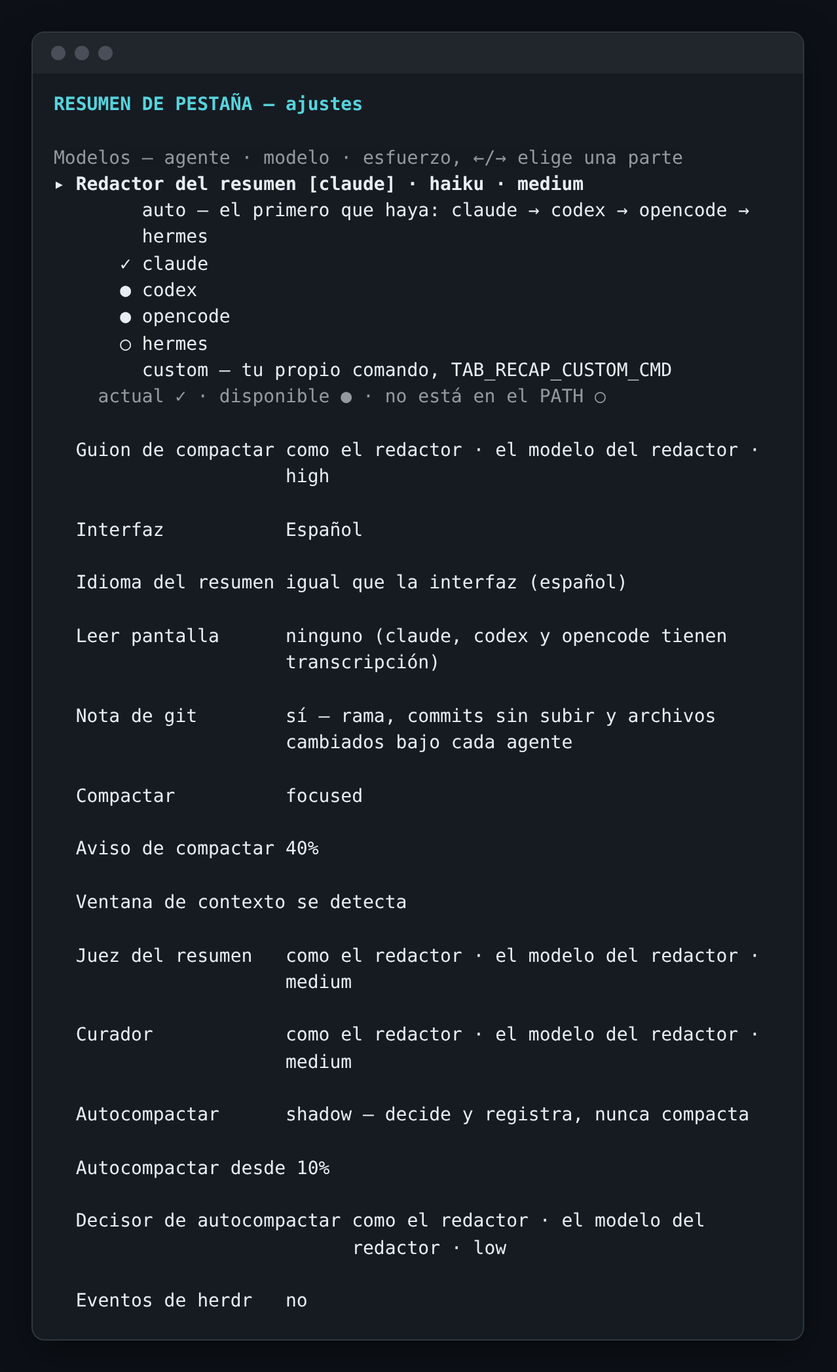
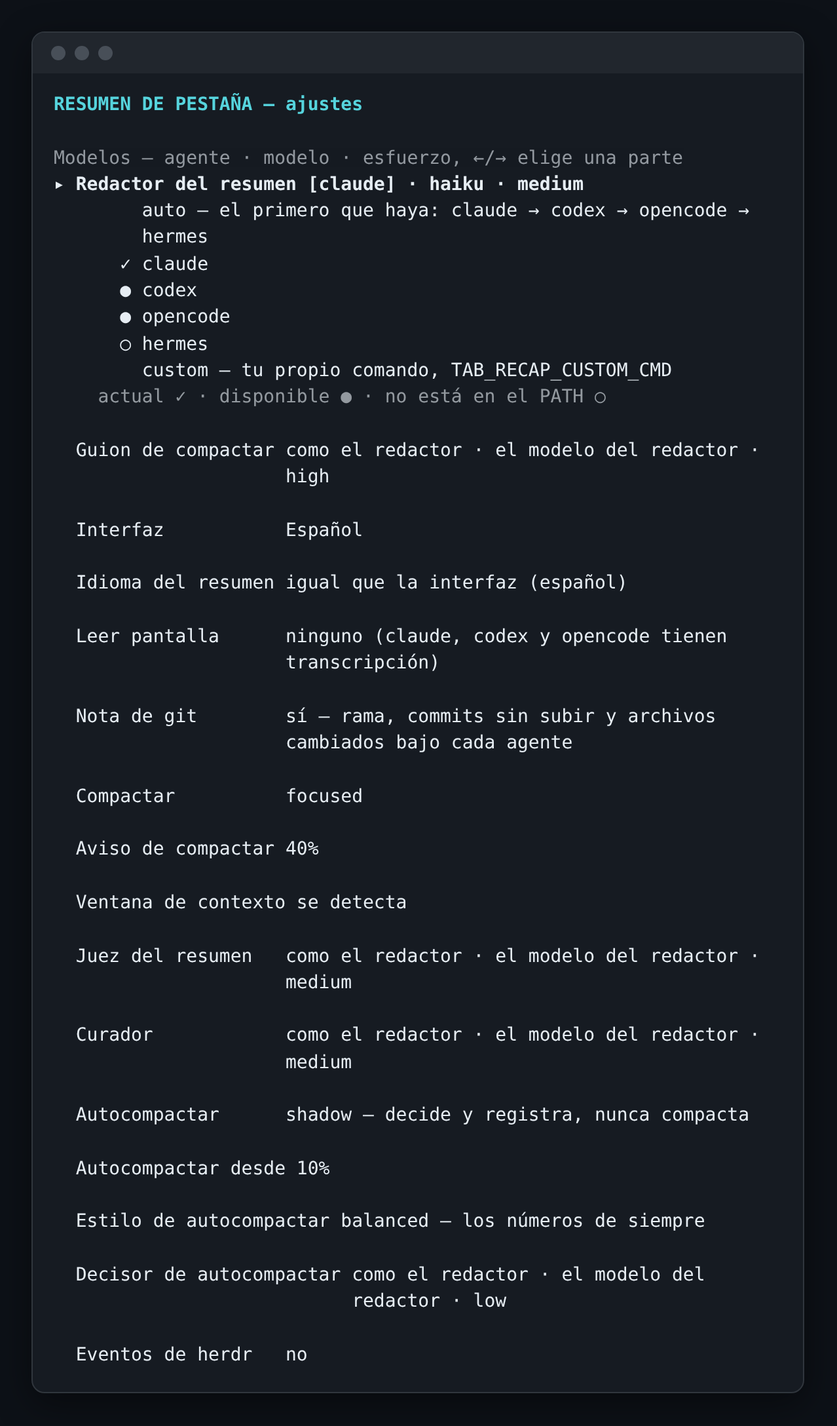
tab-recap: autocompact style in the settings modal, README, example config and the listing header
The «Autocompact style» row writes TAB_RECAP_AUTOCOMPACT_STYLE (English and Spanish), a locked row is never
written. README gets the table of the three styles; config.example.env the style and the advanced keys
(commented, so an explicit CEILING does not override the style); tab-recap autocompact prints the style and
its numbers first. Screenshots setup-en/es regenerated.

diff --git a/tab-recap/src/recap/application/setup-state.ts b/tab-recap/src/recap/application/setup-state.ts
@@ -6,6 +6,8 @@ import type { Effort } from '#src/recap/domain/effort.ts';
 import { hintSetting, targetSetting, windowSetting } from '#src/recap/domain/compaction.ts';
 import { modeOf, minimumOf } from '#src/recap/domain/autocompact.ts';
 import type { AutocompactMode } from '#src/recap/domain/autocompact.ts';
+import { STYLES, styleOf } from '#src/recap/domain/autocompact-style.ts';
+import type { AutocompactStyle } from '#src/recap/domain/autocompact-style.ts';
 import { compactJobOf, curateJobOf, DECIDER_BY_CHOICES, deciderJobOf, JOB_BY_CHOICES, judgeJobOf } from '#src/recap/domain/job.ts';
 import type { DeciderBy, DeciderJob, Job, JobBy } from '#src/recap/domain/job.ts';
 import { screenSetting } from '#src/recap/domain/policy.ts';
@@ -14,8 +16,8 @@ import { herdrEventsOf } from '#src/recap/domain/herdr-events.ts';
 import type { HerdrEvents } from '#src/recap/domain/herdr-events.ts';
 
 /** The rows; a job row (`recapJob`, `compactJob`) holds three fields — harness · model · effort — and `part` says which one is focused. */
-export type RowId = 'recapJob' | 'compactJob' | 'judgeJob' | 'curatorJob' | 'locale' | 'recapLanguage' | 'screenAgents' | 'gitNote' | 'compactTarget' | 'compactHint' | 'contextWindow' | 'autocompact' | 'autocompactAt' | 'autocompactJob' | 'herdrEvents';
-export const ROWS: readonly RowId[] = ['recapJob', 'compactJob', 'locale', 'recapLanguage', 'screenAgents', 'gitNote', 'compactTarget', 'compactHint', 'contextWindow', 'judgeJob', 'curatorJob', 'autocompact', 'autocompactAt', 'autocompactJob', 'herdrEvents'];
+export type RowId = 'recapJob' | 'compactJob' | 'judgeJob' | 'curatorJob' | 'locale' | 'recapLanguage' | 'screenAgents' | 'gitNote' | 'compactTarget' | 'compactHint' | 'contextWindow' | 'autocompact' | 'autocompactAt' | 'autocompactStyle' | 'autocompactJob' | 'herdrEvents';
+export const ROWS: readonly RowId[] = ['recapJob', 'compactJob', 'locale', 'recapLanguage', 'screenAgents', 'gitNote', 'compactTarget', 'compactHint', 'contextWindow', 'judgeJob', 'curatorJob', 'autocompact', 'autocompactAt', 'autocompactStyle', 'autocompactJob', 'herdrEvents'];
 /** What can be edited and locked: every row that is not a job, and each part of a job. */
 export type FieldId = Exclude<RowId, 'recapJob' | 'compactJob' | 'judgeJob' | 'curatorJob' | 'autocompactJob'> | 'harness' | 'model' | 'effort' | 'compactBy' | 'compactModel' | 'compactEffort' | 'judgeBy' | 'judgeModel' | 'judgeEffort' | 'curateBy' | 'curateModel' | 'curateEffort' | 'decideBy' | 'decideModel' | 'decideEffort';
 export const JOB_FIELDS: Readonly<Partial<Record<RowId, readonly FieldId[]>>> = {
@@ -30,6 +32,7 @@ export const JOB_BY_OPTIONS: readonly JobBy[] = JOB_BY_CHOICES;
 /** The decider's own list: the other jobs' plus `jev`. */
 export const DECIDER_BY_OPTIONS: readonly DeciderBy[] = DECIDER_BY_CHOICES;
 export const MODE_CHOICES: readonly AutocompactMode[] = ['off', 'shadow', 'on'];
+export const STYLE_CHOICES: readonly AutocompactStyle[] = STYLES;
 export const EFFORT_CHOICES: readonly Effort[] = EFFORTS;
 export type LocaleSetting = 'auto' | 'en' | 'es';
 export const HARNESS_CHOICES: readonly BackendChoice[] = ['auto', ...BACKEND_IDS];
@@ -60,6 +63,8 @@ export interface Draft {
     readonly autocompact: AutocompactMode;
     /** autocompact's minimum, as stored: 10–95 (`TAB_RECAP_AUTOCOMPACT_AT`) */
     readonly autocompactAt: string;
+    /** autocompact's style: how eagerly it acts (`TAB_RECAP_AUTOCOMPACT_STYLE`, `balanced` unless set) */
+    readonly autocompactStyle: AutocompactStyle;
     /** the decider's job (`TAB_RECAP_AUTOCOMPACT_BY`, `_MODEL`, `_EFFORT`); the Jev URL, model and key are never rows */
     readonly decide: DeciderJob;
     /** which agents compaction reaches, as stored: `focused`, `all` or a comma list of kinds (`TAB_RECAP_COMPACT_TARGET`) */
@@ -114,10 +119,10 @@ export interface Stepped {
 }
 
 /** The settings as they are now: the resolved configuration plus the raw locale settings. */
-export function draftFrom(config: Pick<Draft, 'backend' | 'models'>, raw: { readonly locale: string | undefined; readonly recapLanguage: string | undefined; readonly screenAgents?: string | undefined; readonly gitNote?: string | undefined; readonly effort?: string | undefined; readonly compactTarget?: string | undefined; readonly compactHint?: string | undefined; readonly contextWindow?: string | undefined; readonly compactBy?: string | undefined; readonly compactModel?: string | undefined; readonly compactEffort?: string | undefined; readonly judgeBy?: string | undefined; readonly judgeModel?: string | undefined; readonly judgeEffort?: string | undefined; readonly curateBy?: string | undefined; readonly curateModel?: string | undefined; readonly curateEffort?: string | undefined; readonly autocompact?: string | undefined; readonly autocompactAt?: string | undefined; readonly decideBy?: string | undefined; readonly decideModel?: string | undefined; readonly decideEffort?: string | undefined; readonly herdrEvents?: string | undefined }): Draft {
+export function draftFrom(config: Pick<Draft, 'backend' | 'models'>, raw: { readonly locale: string | undefined; readonly recapLanguage: string | undefined; readonly screenAgents?: string | undefined; readonly gitNote?: string | undefined; readonly effort?: string | undefined; readonly compactTarget?: string | undefined; readonly compactHint?: string | undefined; readonly contextWindow?: string | undefined; readonly compactBy?: string | undefined; readonly compactModel?: string | undefined; readonly compactEffort?: string | undefined; readonly judgeBy?: string | undefined; readonly judgeModel?: string | undefined; readonly judgeEffort?: string | undefined; readonly curateBy?: string | undefined; readonly curateModel?: string | undefined; readonly curateEffort?: string | undefined; readonly autocompact?: string | undefined; readonly autocompactAt?: string | undefined; readonly autocompactStyle?: string | undefined; readonly decideBy?: string | undefined; readonly decideModel?: string | undefined; readonly decideEffort?: string | undefined; readonly herdrEvents?: string | undefined }): Draft {
     const locale = LOCALE_CHOICES.find((choice) => choice === raw.locale) ?? 'auto';
     const gitNote = raw.gitNote?.trim().toLowerCase() === 'off' ? 'off' : 'on';
-    return { ...config, herdrEvents: herdrEventsOf(raw.herdrEvents), locale, recapLanguage: languageSetting(raw.recapLanguage), screenAgents: screenSetting(raw.screenAgents), gitNote, effort: effortOf(raw.effort), compactTarget: targetSetting(raw.compactTarget), compactHint: hintSetting(raw.compactHint), contextWindow: windowSetting(raw.contextWindow), compact: compactJobOf((key) => ({ TAB_RECAP_COMPACT_BY: raw.compactBy, TAB_RECAP_COMPACT_MODEL: raw.compactModel, TAB_RECAP_COMPACT_EFFORT: raw.compactEffort })[key]), judge: judgeJobOf((key) => ({ TAB_RECAP_JUDGE_BY: raw.judgeBy, TAB_RECAP_JUDGE_MODEL: raw.judgeModel, TAB_RECAP_JUDGE_EFFORT: raw.judgeEffort })[key]), curate: curateJobOf((key) => ({ TAB_RECAP_CURATE_BY: raw.curateBy, TAB_RECAP_CURATE_MODEL: raw.curateModel, TAB_RECAP_CURATE_EFFORT: raw.curateEffort })[key]), autocompact: modeOf(raw.autocompact), autocompactAt: String(minimumOf(raw.autocompactAt)), decide: deciderJobOf((key) => ({ TAB_RECAP_AUTOCOMPACT_BY: raw.decideBy, TAB_RECAP_AUTOCOMPACT_MODEL: raw.decideModel, TAB_RECAP_AUTOCOMPACT_EFFORT: raw.decideEffort })[key]) };
+    return { ...config, herdrEvents: herdrEventsOf(raw.herdrEvents), locale, recapLanguage: languageSetting(raw.recapLanguage), screenAgents: screenSetting(raw.screenAgents), gitNote, effort: effortOf(raw.effort), compactTarget: targetSetting(raw.compactTarget), compactHint: hintSetting(raw.compactHint), contextWindow: windowSetting(raw.contextWindow), compact: compactJobOf((key) => ({ TAB_RECAP_COMPACT_BY: raw.compactBy, TAB_RECAP_COMPACT_MODEL: raw.compactModel, TAB_RECAP_COMPACT_EFFORT: raw.compactEffort })[key]), judge: judgeJobOf((key) => ({ TAB_RECAP_JUDGE_BY: raw.judgeBy, TAB_RECAP_JUDGE_MODEL: raw.judgeModel, TAB_RECAP_JUDGE_EFFORT: raw.judgeEffort })[key]), curate: curateJobOf((key) => ({ TAB_RECAP_CURATE_BY: raw.curateBy, TAB_RECAP_CURATE_MODEL: raw.curateModel, TAB_RECAP_CURATE_EFFORT: raw.curateEffort })[key]), autocompact: modeOf(raw.autocompact), autocompactAt: String(minimumOf(raw.autocompactAt)), autocompactStyle: styleOf(raw.autocompactStyle), decide: deciderJobOf((key) => ({ TAB_RECAP_AUTOCOMPACT_BY: raw.decideBy, TAB_RECAP_AUTOCOMPACT_MODEL: raw.decideModel, TAB_RECAP_AUTOCOMPACT_EFFORT: raw.decideEffort })[key]) };
 }
 
 export function initial(draft: Draft, locks: Locks): Setup {

diff --git a/tab-recap/src/recap/render/setup.ts b/tab-recap/src/recap/render/setup.ts
@@ -1,6 +1,6 @@
 // The settings modal as lines of text. Pure; every word comes from Messages.
 import type { Messages } from '#src/i18n/messages.ts';
-import { DECIDER_BY_OPTIONS, EFFORT_CHOICES, fieldOf, HARNESS_CHOICES, JOB_BY_OPTIONS, JOB_FIELDS, LOCALE_CHOICES, MODE_CHOICES, modelTarget, ROWS, rowOf, SWITCH_CHOICES } from '#src/recap/application/setup-keys.ts';
+import { DECIDER_BY_OPTIONS, EFFORT_CHOICES, fieldOf, HARNESS_CHOICES, JOB_BY_OPTIONS, JOB_FIELDS, LOCALE_CHOICES, MODE_CHOICES, modelTarget, ROWS, rowOf, STYLE_CHOICES, SWITCH_CHOICES } from '#src/recap/application/setup-keys.ts';
 import type { FieldId, RowId, Setup } from '#src/recap/application/setup-keys.ts';
 import type { DeciderJob } from '#src/recap/domain/job.ts';
 import { AUTO_ORDER, MODEL_DEFAULTS } from '#src/recap/domain/backend.ts';
@@ -70,6 +70,7 @@ const VALUES: Readonly<Record<RowId, (state: Setup, m: Messages) => string>> = {
     autocompactJob: (state, m) => jobText('autocompactJob', state, m),
     autocompact: (state, m) => m.setup.autocompactChoices[state.draft.autocompact],
     autocompactAt: (state) => `${state.draft.autocompactAt}%`,
+    autocompactStyle: (state, m) => m.setup.autocompactStyleChoices[state.draft.autocompactStyle],
     locale: (state, m) => m.setup.uiChoices[state.draft.locale],
     recapLanguage: (state, m) => recapText(state.draft.recapLanguage, m),
     screenAgents: (state, m) => screenText(state.draft.screenAgents, m),
@@ -111,7 +112,7 @@ function pickList(state: Setup, labels: readonly string[], width: number, style:
 }
 
 function hintOf(row: RowId, m: Messages): string | null {
-    const hints: Readonly<Partial<Record<RowId, string>>> = { herdrEvents: m.setup.herdrEventsHint, compactJob: m.setup.compactJobHint, judgeJob: m.setup.judgeJobHint, curatorJob: m.setup.curateJobHint, autocompact: m.setup.autocompactHint, autocompactAt: m.setup.autocompactAtHint, autocompactJob: m.setup.autocompactJobHint, recapLanguage: m.setup.recapLanguageHint, screenAgents: m.setup.screenAgentsHint, compactTarget: m.setup.compactTargetHint, compactHint: m.setup.compactHintHint, contextWindow: m.setup.contextWindowHint };
+    const hints: Readonly<Partial<Record<RowId, string>>> = { herdrEvents: m.setup.herdrEventsHint, compactJob: m.setup.compactJobHint, judgeJob: m.setup.judgeJobHint, curatorJob: m.setup.curateJobHint, autocompact: m.setup.autocompactHint, autocompactAt: m.setup.autocompactAtHint, autocompactStyle: m.setup.autocompactStyleHint, autocompactJob: m.setup.autocompactJobHint, recapLanguage: m.setup.recapLanguageHint, screenAgents: m.setup.screenAgentsHint, compactTarget: m.setup.compactTargetHint, compactHint: m.setup.compactHintHint, contextWindow: m.setup.contextWindowHint };
     return hints[row] ?? null;
 }
 
@@ -141,6 +142,7 @@ function choicesUnder(row: RowId, state: Setup, m: Messages, width: number, styl
         judgeEffort: () => pickList(state, EFFORT_CHOICES.map((choice) => m.setup.effortChoices[choice]), width, style),
         curateBy: () => pickList(state, JOB_BY_OPTIONS.map((choice) => (choice === 'off' ? m.setup.curateOff : m.setup.jobByChoices[choice])), width, style),
         autocompact: () => pickList(state, MODE_CHOICES.map((choice) => m.setup.autocompactChoices[choice]), width, style),
+        autocompactStyle: () => pickList(state, STYLE_CHOICES.map((choice) => m.setup.autocompactStyleChoices[choice]), width, style),
         decideBy: () => pickList(state, DECIDER_BY_OPTIONS.map((choice) => (choice === 'off' ? m.setup.deciderOff : m.setup.jobByChoices[choice])), width, style),
         decideEffort: () => pickList(state, EFFORT_CHOICES.map((choice) => m.setup.effortChoices[choice]), width, style),
         curateEffort: () => pickList(state, EFFORT_CHOICES.map((choice) => m.setup.effortChoices[choice]), width, style),

diff --git a/tab-recap/test/autocompact-style-modal.test.ts b/tab-recap/test/autocompact-style-modal.test.ts
@@ -1,0 +1,54 @@
+// The settings modal's «Autocompact style» row: it shows the style, writes TAB_RECAP_AUTOCOMPACT_STYLE when chosen, is never written while locked,
+// and an unknown value in the file is the balanced style.
+import { test } from 'node:test';
+import assert from 'node:assert/strict';
+import { en } from '#src/i18n/en.ts';
+import { es } from '#src/i18n/es.ts';
+import { changes, draftFrom, initial, locksOf, step, withAvailable } from '#src/recap/application/setup-keys.ts';
+import type { Draft, Locks, Setup } from '#src/recap/application/setup-keys.ts';
+import { setupView } from '#src/recap/render/setup.ts';
+import type { AutocompactStyle } from '#src/recap/domain/autocompact-style.ts';
+
+const models = { claude: '', codex: 'gpt-6-luna', opencode: '', hermes: '', custom: '' };
+const draft: Draft = draftFrom({ backend: 'codex', models }, { locale: undefined, recapLanguage: undefined });
+const start = (locks: Locks = {}): Setup => withAvailable(initial(draft, locks), ['claude', 'codex']);
+const down = (n: number): string[] => Array.from({ length: n }, () => 'j');
+
+/** The style a configuration file names, as the modal reads it. */
+const readStyle = (autocompactStyle: string | undefined): AutocompactStyle => draftFrom({ backend: 'codex', models }, { locale: undefined, recapLanguage: undefined, autocompactStyle }).autocompactStyle;
+
+/** The keys pressed in order, the state after each. */
+function typed(state: Setup, keys: readonly string[]): Setup {
+    return keys.reduce((now, key) => step(now, key).state, state);
+}
+
+test('the row starts at balanced, and choosing eager writes TAB_RECAP_AUTOCOMPACT_STYLE only', () => {
+    assert.equal(draft.autocompactStyle, 'balanced');
+    const chosen = typed(start(), [...down(13), '\r', 'j', '\r']);
+    assert.equal(chosen.draft.autocompactStyle, 'eager');
+    assert.deepEqual([...changes(chosen)], [['TAB_RECAP_AUTOCOMPACT_STYLE', 'eager']]);
+});
+
+test('a locked row is never written: the row names its variable and a change is not saved', () => {
+    const locked = start({ autocompactStyle: 'TAB_RECAP_AUTOCOMPACT_STYLE' });
+    const attempted = typed(locked, [...down(13), '\r', 'j', '\r']);
+    assert.equal(typed(locked, [...down(13), '\r']).note, 'locked');
+    assert.deepEqual([...changes(attempted)], [], 'a locked row produces no change');
+    assert.deepEqual(locksOf({ TAB_RECAP_AUTOCOMPACT_STYLE: 'gentle' }), { autocompactStyle: 'TAB_RECAP_AUTOCOMPACT_STYLE' });
+});
+
+test('the file\'s value: gentle and eager are read as they are; anything else is balanced', () => {
+    assert.deepEqual(['gentle', 'EAGER', 'aggressive', undefined].map(readStyle), ['gentle', 'eager', 'balanced', 'balanced']);
+});
+
+test('the row shows its value and its three choices in English and Spanish, with its hint while focused', () => {
+    const focused = typed(withAvailable(initial(draft, {}), ['claude']), down(13));
+    const text = setupView(focused, en, 140).join('\n');
+    assert.match(text, /Autocompact style\s+balanced — today's numbers/);
+    assert.match(text, /how eagerly it acts/);
+    const choosing = setupView(typed(focused, ['\r']), en, 140).join('\n');
+    assert.match(choosing, /eager — acts sooner; asks an idle lane again every 30 min/);
+    const spanish = setupView(typed(focused, ['\r']), es, 140).join('\n');
+    assert.match(spanish, /eager — actúa antes; vuelve a mirar un agente libre cada 30 min/);
+    assert.match(setupView(typed(withAvailable(initial(draft, {}), ['claude']), down(13)), es, 140).join('\n'), /Estilo de autocompactar\s+balanced — los números de siempre/);
+});

diff --git a/tab-recap/src/i18n/es.ts b/tab-recap/src/i18n/es.ts
@@ -26,7 +26,7 @@ export const es: Messages = {
     },
     setup: {
         title: 'RESUMEN DE PESTAÑA — ajustes',
-        rows: { recapJob: 'Redactor del resumen', compactJob: 'Guion de compactar', judgeJob: 'Juez del resumen', curatorJob: 'Curador', locale: 'Interfaz', recapLanguage: 'Idioma del resumen', screenAgents: 'Leer pantalla', gitNote: 'Nota de git', compactTarget: 'Compactar', compactHint: 'Aviso de compactar', contextWindow: 'Ventana de contexto', autocompact: 'Autocompactar', autocompactAt: 'Autocompactar desde', autocompactJob: 'Decisor de autocompactar', herdrEvents: 'Eventos de herdr' },
+        rows: { recapJob: 'Redactor del resumen', compactJob: 'Guion de compactar', judgeJob: 'Juez del resumen', curatorJob: 'Curador', locale: 'Interfaz', recapLanguage: 'Idioma del resumen', screenAgents: 'Leer pantalla', gitNote: 'Nota de git', compactTarget: 'Compactar', compactHint: 'Aviso de compactar', contextWindow: 'Ventana de contexto', autocompact: 'Autocompactar', autocompactAt: 'Autocompactar desde', autocompactStyle: 'Estilo de autocompactar', autocompactJob: 'Decisor de autocompactar', herdrEvents: 'Eventos de herdr' },
         loading: 'buscando agentes…',
         auto: (order) => `el primero que haya: ${order}`,
         custom: 'tu propio comando, TAB_RECAP_CUSTOM_CMD',
@@ -55,6 +55,8 @@ export const es: Messages = {
         autocompactChoices: { off: 'off — nunca decide', shadow: 'shadow — decide y registra, nunca compacta', on: 'on — compacta en un buen momento por encima del límite' },
         autocompactHint: 'compacta solo a un agente libre cuando su contexto está lleno y no hay nada a medias; empieza con shadow y mira `tab-recap autocompact`',
         autocompactAtHint: 'la parte del contexto desde la que se evalúa un agente libre: de 10 a 95',
+        autocompactStyleChoices: { gentle: 'gentle — espera a un momento más claro', balanced: 'balanced — los números de siempre', eager: 'eager — actúa antes; vuelve a mirar un agente libre cada 30 min' },
+        autocompactStyleHint: 'cuánto se adelanta: los números del veredicto, la comprobación del resumen, el techo, la espera y la revisión (claves avanzadas en config.example.env)',
         autocompactJobHint: 'responde unas preguntas de sí o no sobre los últimos turnos; una llamada corta, una fracción de centavo',
         deciderOff: 'off — autocompactar no consulta a nadie y solo decide por el techo',
         compactJobHint: 'escribe qué conserva el agente al compactar; vale la pena un esfuerzo alto, corre una vez por compactación',

diff --git a/tab-recap/src/i18n/en.ts b/tab-recap/src/i18n/en.ts
@@ -24,7 +24,7 @@ export const en: Messages = {
     },
     setup: {
         title: 'TAB RECAP — settings',
-        rows: { recapJob: 'Recap writer', compactJob: 'Compact brief', judgeJob: 'Recap judge', curatorJob: 'Curator', locale: 'Interface', recapLanguage: 'Recap language', screenAgents: 'Screen agents', gitNote: 'Git note', compactTarget: 'Compact', compactHint: 'Compact hint', contextWindow: 'Context window', autocompact: 'Autocompact', autocompactAt: 'Autocompact from', autocompactJob: 'Autocompact decider', herdrEvents: 'Herdr events' },
+        rows: { recapJob: 'Recap writer', compactJob: 'Compact brief', judgeJob: 'Recap judge', curatorJob: 'Curator', locale: 'Interface', recapLanguage: 'Recap language', screenAgents: 'Screen agents', gitNote: 'Git note', compactTarget: 'Compact', compactHint: 'Compact hint', contextWindow: 'Context window', autocompact: 'Autocompact', autocompactAt: 'Autocompact from', autocompactStyle: 'Autocompact style', autocompactJob: 'Autocompact decider', herdrEvents: 'Herdr events' },
         loading: 'looking for agents…',
         auto: (order) => `the first one found: ${order}`,
         custom: 'your own command, TAB_RECAP_CUSTOM_CMD',
@@ -53,6 +53,8 @@ export const en: Messages = {
         autocompactChoices: { off: 'off — never decides', shadow: 'shadow — decides and records, never compacts', on: 'on — compacts at a safe moment above the limit' },
         autocompactHint: 'compacts an idle agent by itself when its context is full and nothing is half done; start with shadow and read `tab-recap autocompact`',
         autocompactAtHint: 'the context share from which an idle agent is evaluated: 10 to 95',
+        autocompactStyleChoices: { gentle: 'gentle — waits for a clearer moment', balanced: 'balanced — today\'s numbers', eager: 'eager — acts sooner; asks an idle lane again every 30 min' },
+        autocompactStyleHint: 'how eagerly it acts: the verdict\'s numbers, the brief check, the ceiling, the cooldown and the re-check (advanced keys in config.example.env)',
         autocompactJobHint: 'answers a few yes/no questions about the last turns; a short call, a fraction of a cent',
         deciderOff: 'off — autocompact asks no one, and decides nothing but the ceiling',
         compactJobHint: 'writes what the agent keeps when it is compacted; a high effort is worth it, it runs once per compaction',

diff --git a/tab-recap/src/setup/main.ts b/tab-recap/src/setup/main.ts
@@ -41,7 +41,7 @@ const get = configGetter();
 const config = loadConfig();
 
 let state: Setup = initial(
-    draftFrom(config, { locale: get('TAB_RECAP_LOCALE'), recapLanguage: get('TAB_RECAP_RECAP_LANG'), screenAgents: get('TAB_RECAP_SCREEN_AGENTS'), gitNote: get('TAB_RECAP_GIT_NOTE'), effort: get('TAB_RECAP_EFFORT'), compactTarget: get('TAB_RECAP_COMPACT_TARGET'), compactHint: get('TAB_RECAP_COMPACT_HINT'), contextWindow: get('TAB_RECAP_CONTEXT_WINDOW'), compactBy: get('TAB_RECAP_COMPACT_BY'), compactModel: get('TAB_RECAP_COMPACT_MODEL'), compactEffort: get('TAB_RECAP_COMPACT_EFFORT'), judgeBy: get('TAB_RECAP_JUDGE_BY'), judgeModel: get('TAB_RECAP_JUDGE_MODEL'), judgeEffort: get('TAB_RECAP_JUDGE_EFFORT'), curateBy: get('TAB_RECAP_CURATE_BY'), curateModel: get('TAB_RECAP_CURATE_MODEL'), curateEffort: get('TAB_RECAP_CURATE_EFFORT'), autocompact: get('TAB_RECAP_AUTOCOMPACT'), autocompactAt: get('TAB_RECAP_AUTOCOMPACT_AT'), decideBy: get('TAB_RECAP_AUTOCOMPACT_BY'), decideModel: get('TAB_RECAP_AUTOCOMPACT_MODEL'), decideEffort: get('TAB_RECAP_AUTOCOMPACT_EFFORT'), herdrEvents: get('TAB_RECAP_HERDR_EVENTS') }),
+    draftFrom(config, { locale: get('TAB_RECAP_LOCALE'), recapLanguage: get('TAB_RECAP_RECAP_LANG'), screenAgents: get('TAB_RECAP_SCREEN_AGENTS'), gitNote: get('TAB_RECAP_GIT_NOTE'), effort: get('TAB_RECAP_EFFORT'), compactTarget: get('TAB_RECAP_COMPACT_TARGET'), compactHint: get('TAB_RECAP_COMPACT_HINT'), contextWindow: get('TAB_RECAP_CONTEXT_WINDOW'), compactBy: get('TAB_RECAP_COMPACT_BY'), compactModel: get('TAB_RECAP_COMPACT_MODEL'), compactEffort: get('TAB_RECAP_COMPACT_EFFORT'), judgeBy: get('TAB_RECAP_JUDGE_BY'), judgeModel: get('TAB_RECAP_JUDGE_MODEL'), judgeEffort: get('TAB_RECAP_JUDGE_EFFORT'), curateBy: get('TAB_RECAP_CURATE_BY'), curateModel: get('TAB_RECAP_CURATE_MODEL'), curateEffort: get('TAB_RECAP_CURATE_EFFORT'), autocompact: get('TAB_RECAP_AUTOCOMPACT'), autocompactAt: get('TAB_RECAP_AUTOCOMPACT_AT'), autocompactStyle: get('TAB_RECAP_AUTOCOMPACT_STYLE'), decideBy: get('TAB_RECAP_AUTOCOMPACT_BY'), decideModel: get('TAB_RECAP_AUTOCOMPACT_MODEL'), decideEffort: get('TAB_RECAP_AUTOCOMPACT_EFFORT'), herdrEvents: get('TAB_RECAP_HERDR_EVENTS') }),
     locksOf(process.env),
 );
 let scroll = 0;

diff --git a/tab-recap/test/setup-keys.test.ts b/tab-recap/test/setup-keys.test.ts
@@ -27,10 +27,10 @@ test('the draft starts from the configuration: auto UI, recap language follows t
     assert.equal(changes(start()).size, 0);
 });
 
-test('navigation: j/k and arrows move between the fifteen rows and stop at the ends', () => {
+test('navigation: j/k and arrows move between the sixteen rows and stop at the ends', () => {
     assert.equal(typed(start(), ['k', 'k']).state.row, 0);
     assert.equal(typed(start(), ['j', `${ESC}[B`]).state.row, 2);
-    assert.equal(typed(start(), down(20)).state.row, 14);
+    assert.equal(typed(start(), down(20)).state.row, 15);
     assert.equal(typed(start(), [...down(3), 'k', `${ESC}[A`]).state.row, 1);
 });
 
@@ -236,9 +236,9 @@ test('the autocompact rows: mode (shadow by default), the minimum (10, 10–95) 
     const at = typed(start(), [...down(12), '\r', '\u0015', '6', '0', '\r']).state;
     assert.deepEqual([...changes(at)], [['TAB_RECAP_AUTOCOMPACT_AT', '60']]);
     assert.equal(typed(at, ['\r', '\u0015', '9', '9', '\r']).state.draft.autocompactAt, '10', 'out of range is the default');
-    const by = typed(start(), [...down(13), '\r', ...Array.from({ length: 7 }, () => 'j'), '\r']).state;
+    const by = typed(start(), [...down(14), '\r', ...Array.from({ length: 7 }, () => 'j'), '\r']).state;
     assert.deepEqual([...changes(by)], [['TAB_RECAP_AUTOCOMPACT_BY', 'jev']]);
-    const model = typed(start(), [...down(13), 'l', '\r', 'm', '\r', 'l', '\r', 'j', '\r']).state;
+    const model = typed(start(), [...down(14), 'l', '\r', 'm', '\r', 'l', '\r', 'j', '\r']).state;
     assert.deepEqual([...changes(model)], [['TAB_RECAP_AUTOCOMPACT_MODEL', 'm'], ['TAB_RECAP_AUTOCOMPACT_EFFORT', 'medium']]);
     assert.deepEqual(locksOf({ TAB_RECAP_AUTOCOMPACT: 'on', TAB_RECAP_AUTOCOMPACT_AT: '50', TAB_RECAP_AUTOCOMPACT_BY: 'jev' }), { autocompact: 'TAB_RECAP_AUTOCOMPACT', autocompactAt: 'TAB_RECAP_AUTOCOMPACT_AT', decideBy: 'TAB_RECAP_AUTOCOMPACT_BY' });
     assert.equal(typed(start({ autocompact: 'TAB_RECAP_AUTOCOMPACT' }), [...down(11), '\r']).state.note, 'locked');

diff --git a/tab-recap/src/recap/application/setup-fields.ts b/tab-recap/src/recap/application/setup-fields.ts
@@ -3,7 +3,7 @@ import { languageSetting } from '#src/i18n/index.ts';
 import { minimumOf } from '#src/recap/domain/autocompact.ts';
 import { hintSetting, targetSetting, windowSetting } from '#src/recap/domain/compaction.ts';
 import { screenSetting } from '#src/recap/domain/policy.ts';
-import { DECIDER_BY_OPTIONS, EFFORT_CHOICES, HARNESS_CHOICES, JOB_BY_OPTIONS, LOCALE_CHOICES, MODE_CHOICES, SWITCH_CHOICES } from './setup-state.ts';
+import { DECIDER_BY_OPTIONS, EFFORT_CHOICES, HARNESS_CHOICES, JOB_BY_OPTIONS, LOCALE_CHOICES, MODE_CHOICES, STYLE_CHOICES, SWITCH_CHOICES } from './setup-state.ts';
 import type { Draft, FieldId } from './setup-state.ts';
 
 export interface ChoiceField {
@@ -35,6 +35,7 @@ export const CHOICES: Readonly<Partial<Record<FieldId, ChoiceField>>> = {
     curateBy: choice(JOB_BY_OPTIONS, (draft) => draft.curate.by, (draft, by) => ({ ...draft, curate: { ...draft.curate, by } })),
     curateEffort: choice(EFFORT_CHOICES, (draft) => draft.curate.effort, (draft, effort) => ({ ...draft, curate: { ...draft.curate, effort } })),
     autocompact: choice(MODE_CHOICES, (draft) => draft.autocompact, (draft, autocompact) => ({ ...draft, autocompact })),
+    autocompactStyle: choice(STYLE_CHOICES, (draft) => draft.autocompactStyle, (draft, autocompactStyle) => ({ ...draft, autocompactStyle })),
     decideBy: choice(DECIDER_BY_OPTIONS, (draft) => draft.decide.by, (draft, by) => ({ ...draft, decide: { ...draft.decide, by } })),
     herdrEvents: choice(SWITCH_CHOICES, (draft) => draft.herdrEvents, (draft, herdrEvents) => ({ ...draft, herdrEvents })),
     decideEffort: choice(EFFORT_CHOICES, (draft) => draft.decide.effort, (draft, effort) => ({ ...draft, decide: { ...draft.decide, effort } })),

diff --git a/tab-recap/test/setup-view.test.ts b/tab-recap/test/setup-view.test.ts
@@ -31,7 +31,7 @@ const states: readonly [string, Setup][] = [
     ['unsaved', typed(withAvailable(base, ['claude']), ['\r', 'j', '\r', 'q'])],
     ['test ok', tested(withAvailable(base, ['claude']), { kind: 'ok', seconds: 3.24, costUsd: 0.0008 })],
     ['test failed', tested(withAvailable(base, ['claude']), { kind: 'failed', why: 'exited 127: opencode not found, a rather long explanation' })],
-    ['autocompact rows', typed(withAvailable(base, ['claude']), [...Array.from({ length: 13 }, () => 'j'), '\r'])],
+    ['autocompact rows', typed(withAvailable(base, ['claude']), [...Array.from({ length: 14 }, () => 'j'), '\r'])],
     ['save failed', { ...withAvailable(base, ['claude']), note: { failed: 'EACCES: permission denied, open config.env' } }],
 ];
 
@@ -165,7 +165,7 @@ test('the autocompact rows show their value, the focused one its hint, and the d
     assert.match(text, /Autocompact from\s+10%/);
     assert.match(text, /Autocompact decider\s+as the recap writer · the recap writer's model · low/);
     assert.match(text, /compacts an idle agent by itself/);
-    const choosing = setupView(typed(withAvailable(base, ['claude']), [...Array.from({ length: 13 }, () => 'j'), '\r']), en, 140).join('\n');
+    const choosing = setupView(typed(withAvailable(base, ['claude']), [...Array.from({ length: 14 }, () => 'j'), '\r']), en, 140).join('\n');
     assert.match(choosing, /jev — the TypeSafe API; the key is read from the environment or ~\/\.config\/typesafe-api-key, never shown here/);
     assert.doesNotMatch(choosing, /Bearer|sk-|SENTINEL/u);
     assert.match(setupView(rows, es, 120).join('\n'), /Autocompactar\s+shadow — decide y registra, nunca compacta/);

diff --git a/tab-recap/src/recap/application/setup-changes.ts b/tab-recap/src/recap/application/setup-changes.ts
@@ -26,6 +26,7 @@ const LOCK_KEYS: Readonly<Record<FieldId, readonly string[]>> = {
     contextWindow: ['TAB_RECAP_CONTEXT_WINDOW'],
     autocompact: ['TAB_RECAP_AUTOCOMPACT'],
     autocompactAt: ['TAB_RECAP_AUTOCOMPACT_AT'],
+    autocompactStyle: ['TAB_RECAP_AUTOCOMPACT_STYLE'],
     decideBy: ['TAB_RECAP_AUTOCOMPACT_BY'],
     decideModel: ['TAB_RECAP_AUTOCOMPACT_MODEL'],
     decideEffort: ['TAB_RECAP_AUTOCOMPACT_EFFORT'],
@@ -58,7 +59,7 @@ function entriesOf(draft: Draft): readonly Entry[] {
         ['locale', 'TAB_RECAP_LOCALE', draft.locale], ['recapLanguage', 'TAB_RECAP_RECAP_LANG', draft.recapLanguage], ['screenAgents', 'TAB_RECAP_SCREEN_AGENTS', draft.screenAgents],
         ['gitNote', 'TAB_RECAP_GIT_NOTE', draft.gitNote], ['effort', 'TAB_RECAP_EFFORT', draft.effort], ['compactTarget', 'TAB_RECAP_COMPACT_TARGET', draft.compactTarget],
         ['compactHint', 'TAB_RECAP_COMPACT_HINT', draft.compactHint], ['contextWindow', 'TAB_RECAP_CONTEXT_WINDOW', draft.contextWindow],
-        ['autocompact', 'TAB_RECAP_AUTOCOMPACT', draft.autocompact], ['autocompactAt', 'TAB_RECAP_AUTOCOMPACT_AT', draft.autocompactAt],
+        ['autocompact', 'TAB_RECAP_AUTOCOMPACT', draft.autocompact], ['autocompactAt', 'TAB_RECAP_AUTOCOMPACT_AT', draft.autocompactAt], ['autocompactStyle', 'TAB_RECAP_AUTOCOMPACT_STYLE', draft.autocompactStyle],
         ['herdrEvents', 'TAB_RECAP_HERDR_EVENTS', draft.herdrEvents],
         ...jobs('compactBy', 'compactModel', 'compactEffort', 'TAB_RECAP_COMPACT', draft.compact),
         ...jobs('judgeBy', 'judgeModel', 'judgeEffort', 'TAB_RECAP_JUDGE', draft.judge),

diff --git a/tab-recap/src/i18n/messages.ts b/tab-recap/src/i18n/messages.ts
@@ -38,7 +38,7 @@ export interface Messages {
     readonly hints: { readonly column: readonly string[]; readonly modal: readonly string[] };
     readonly setup: {
         readonly title: string;
-        readonly rows: Readonly<Record<'recapJob' | 'compactJob' | 'judgeJob' | 'curatorJob' | 'locale' | 'recapLanguage' | 'screenAgents' | 'gitNote' | 'compactTarget' | 'compactHint' | 'contextWindow' | 'autocompact' | 'autocompactAt' | 'autocompactJob' | 'herdrEvents', string>>;
+        readonly rows: Readonly<Record<'recapJob' | 'compactJob' | 'judgeJob' | 'curatorJob' | 'locale' | 'recapLanguage' | 'screenAgents' | 'gitNote' | 'compactTarget' | 'compactHint' | 'contextWindow' | 'autocompact' | 'autocompactAt' | 'autocompactStyle' | 'autocompactJob' | 'herdrEvents', string>>;
         readonly loading: string;
         readonly auto: (order: string) => string;
         readonly custom: string;
@@ -66,6 +66,9 @@ export interface Messages {
         readonly autocompactChoices: { readonly off: string; readonly shadow: string; readonly on: string };
         readonly autocompactHint: string;
         readonly autocompactAtHint: string;
+        /** autocompact style: the three styles' words, and the hint of its row */
+        readonly autocompactStyleChoices: { readonly gentle: string; readonly balanced: string; readonly eager: string };
+        readonly autocompactStyleHint: string;
         readonly autocompactJobHint: string;
         /** the `off` choice of the decider's harness list */
         readonly deciderOff: string;

diff --git a/tab-recap/README.md b/tab-recap/README.md
@@ -283,13 +283,33 @@ table; raised when the tokens actually used prove it bigger. `TAB_RECAP_CONTEXT_
 **What it does.** When an agent becomes idle or done and its context is at least `TAB_RECAP_AUTOCOMPACT_AT` percent
 full (10 by default), autocompact decides in code whether anything stops it — a compaction already under way, work the
 agent started and has not finished (a background shell, a launched agent or monitor), the cooldown
-(`TAB_RECAP_AUTOCOMPACT_COOLDOWN_MS`, ten minutes) — and only then asks a **decider** six yes/no questions about the
+(`TAB_RECAP_AUTOCOMPACT_COOLDOWN_MS`, ten minutes with the default style) — and only then asks a **decider** six yes/no questions about the
 last turns (does the reply close the request, does it announce more work, does it ask you to choose between options only
 it describes, would the next steps need exact output only the last turns hold, did the subject change, is it stuck).
-Every safe moment above the limit compacts; anything else waits and is asked again after the cooldown. At
-`TAB_RECAP_AUTOCOMPACT_CEILING` (80) the answer is yes without asking anyone. Before an automatic compaction types
+Every safe moment above the limit compacts; anything else waits and is asked again after the cooldown. At the ceiling
+(`TAB_RECAP_AUTOCOMPACT_CEILING`, 80 with the default style) the answer is yes without asking anyone. Before an automatic compaction types
 anything, the brief is checked against the open goal, needs, decisions and rules: a fact it loses gets one rewrite, and
 a brief that still loses one is not typed.
+
+**Styles.** `TAB_RECAP_AUTOCOMPACT_STYLE` sets how eagerly autocompact acts. `balanced` (the default) is the numbers
+above; `gentle` waits for a clearer moment; `eager` acts sooner and asks an idle lane again. The settings modal's
+«Autocompact style» row writes it.
+
+| | `gentle` | `balanced` (default) | `eager` |
+| --- | --- | --- | --- |
+| verdict: warnings at most | 0.20 | 0.30 | 0.40 |
+| verdict: closes / changes subject at least | 0.80 | 0.70 | 0.60 |
+| undecided band | 0.30–0.70 | 0.35–0.65 | 0.45–0.55 |
+| brief check pass mark | 0.75 | 0.70 | 0.60 |
+| ceiling (when `TAB_RECAP_AUTOCOMPACT_CEILING` is unset) | 85 | 80 | 65 |
+| cooldown (when `TAB_RECAP_AUTOCOMPACT_COOLDOWN_MS` is unset) | 20 min | 10 min | 5 min |
+| ask a `wait` lane again after it stays idle, even unchanged | never | never | after 30 min |
+
+An explicit key always wins over the style. Four advanced keys set the numbers themselves, each in its range, and an
+out-of-range or invalid value is the style's number: `TAB_RECAP_AUTOCOMPACT_SAFE_AT_MOST` (0.05–0.50),
+`TAB_RECAP_AUTOCOMPACT_CLOSES_AT_LEAST` (0.50–0.95), `TAB_RECAP_AUTOCOMPACT_COVERAGE_AT_LEAST` (0.30–0.95) and
+`TAB_RECAP_AUTOCOMPACT_RECHECK_IDLE_MS` (60000–86400000; the re-check interval, which any style may set). The
+undecided band follows the style. `tab-recap autocompact` prints the style and its numbers before the decisions.
 
 **Shadow first.** `TAB_RECAP_AUTOCOMPACT` is `shadow` by default: every decision is recorded and logged, nothing is
 ever typed. Read what it would have done with `tab-recap autocompact` (the newest twenty decisions, with the last
